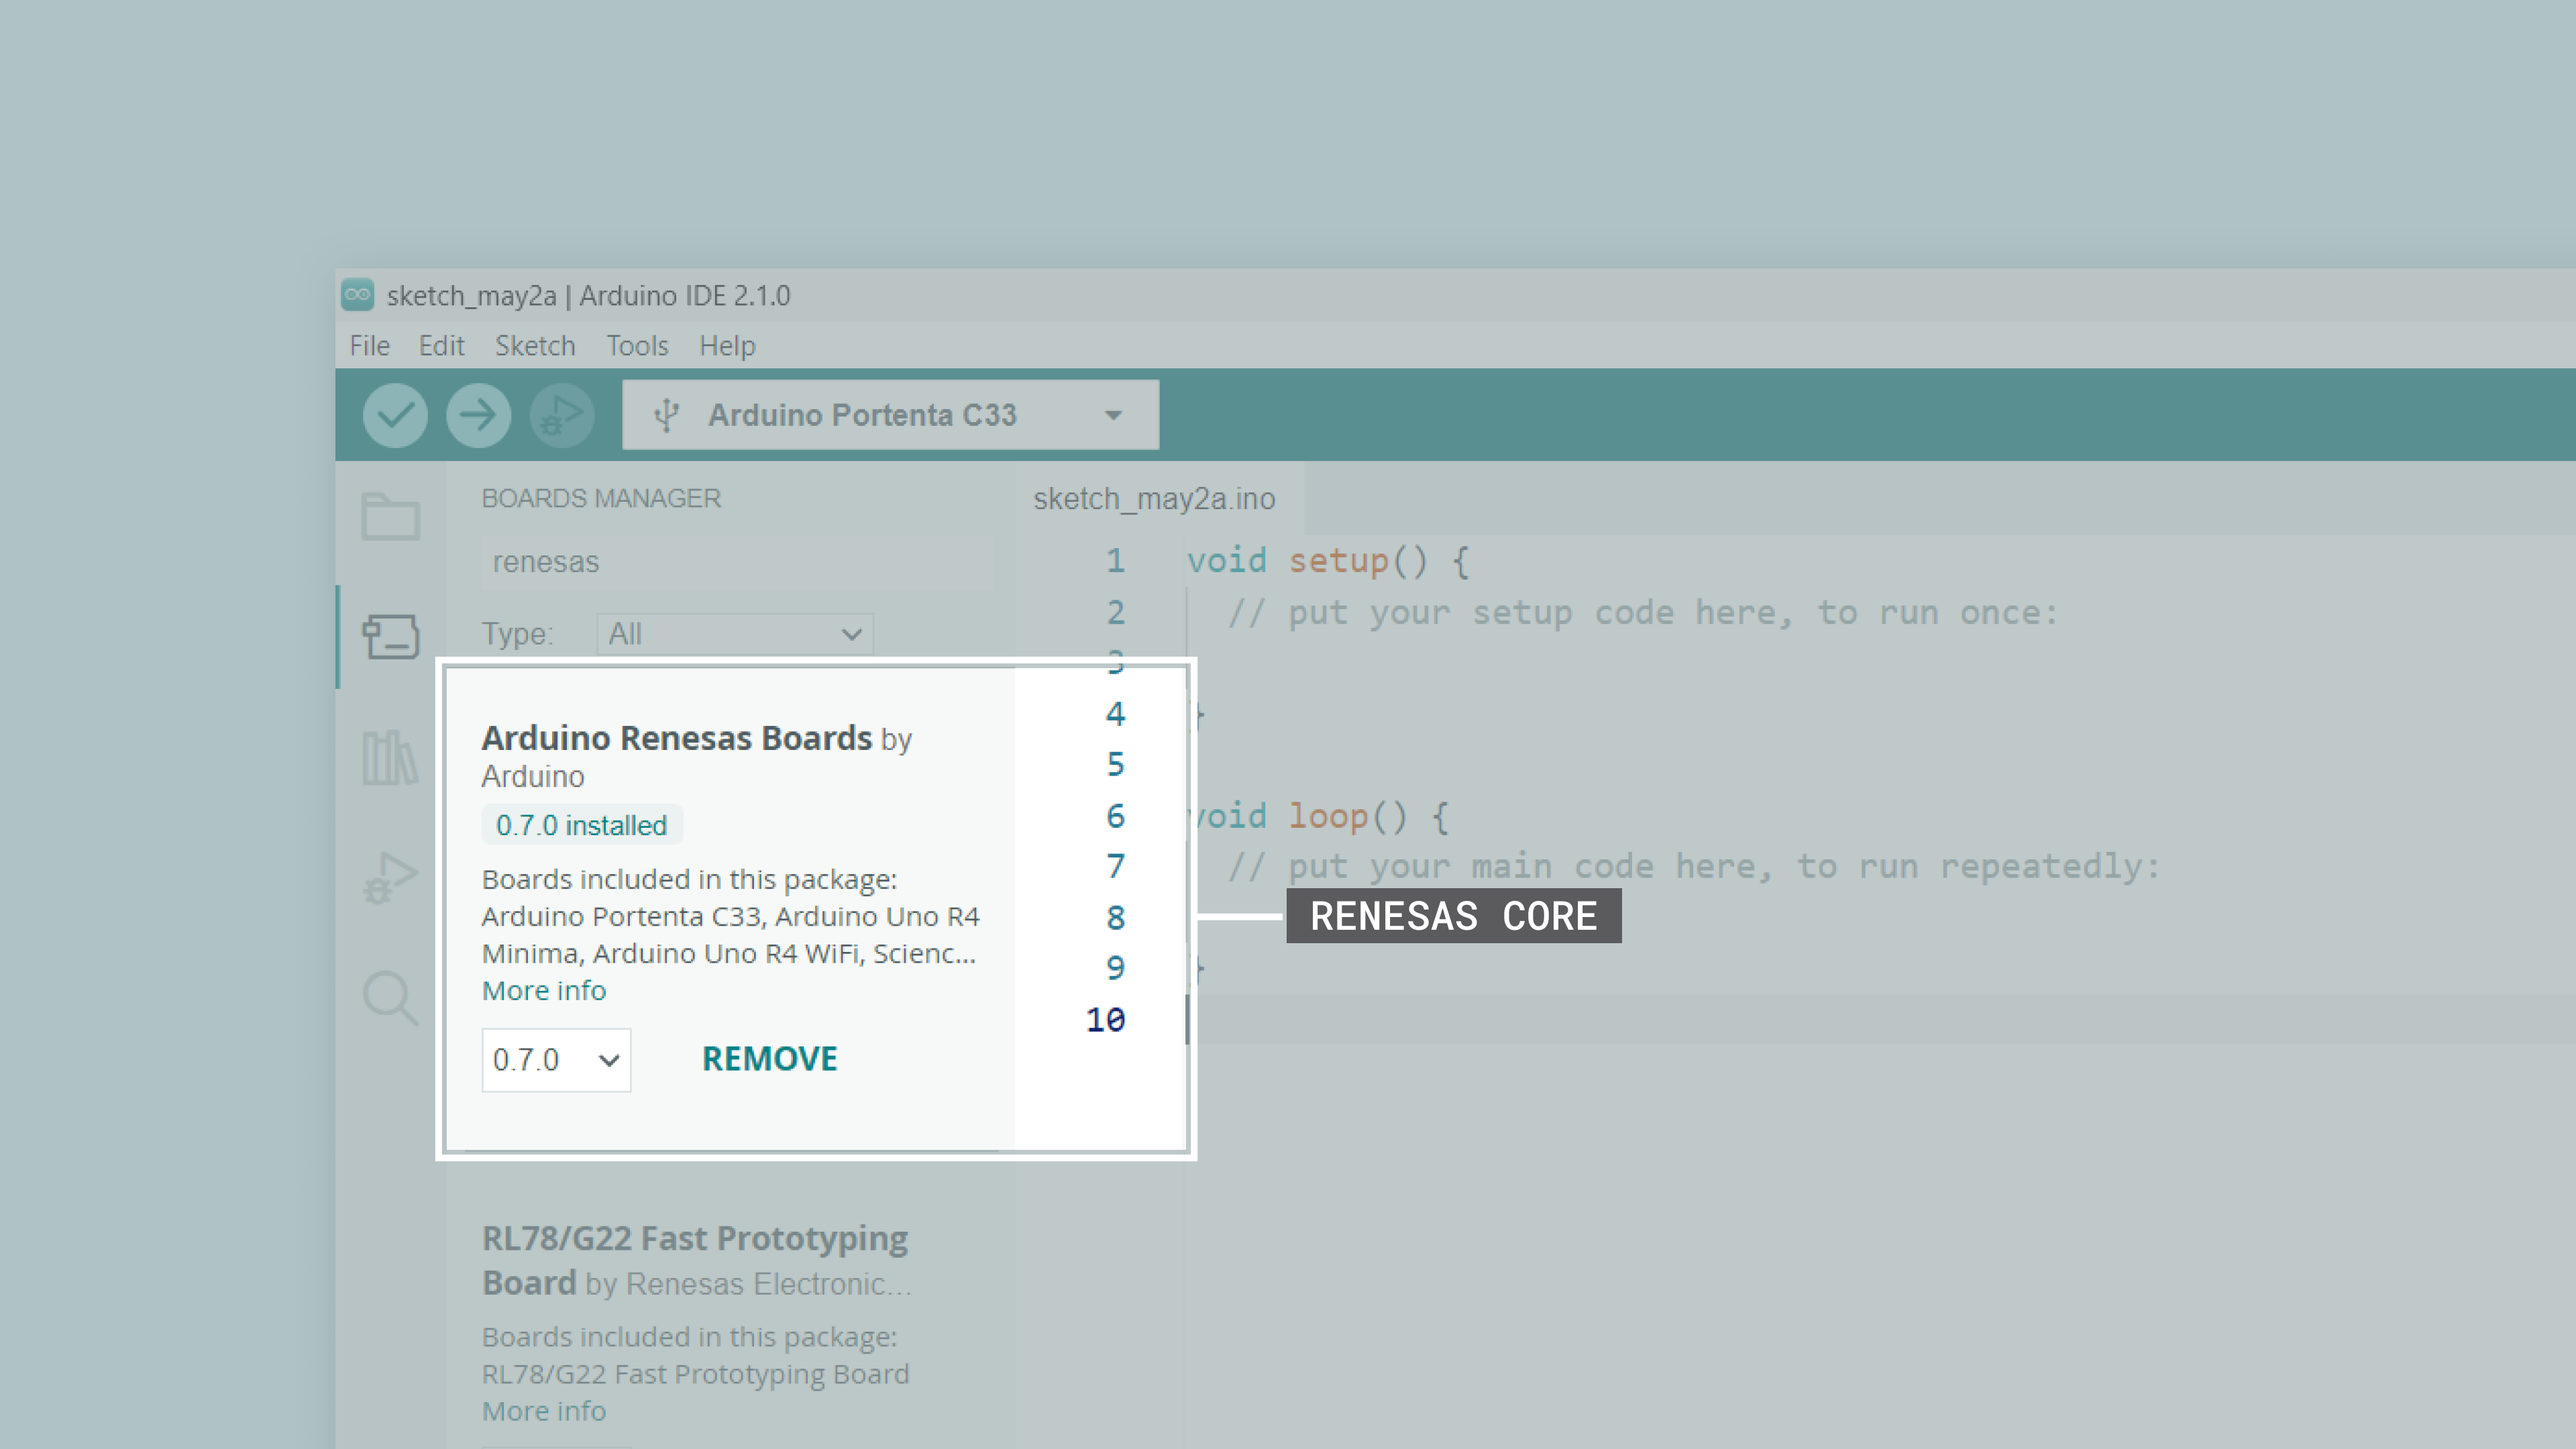
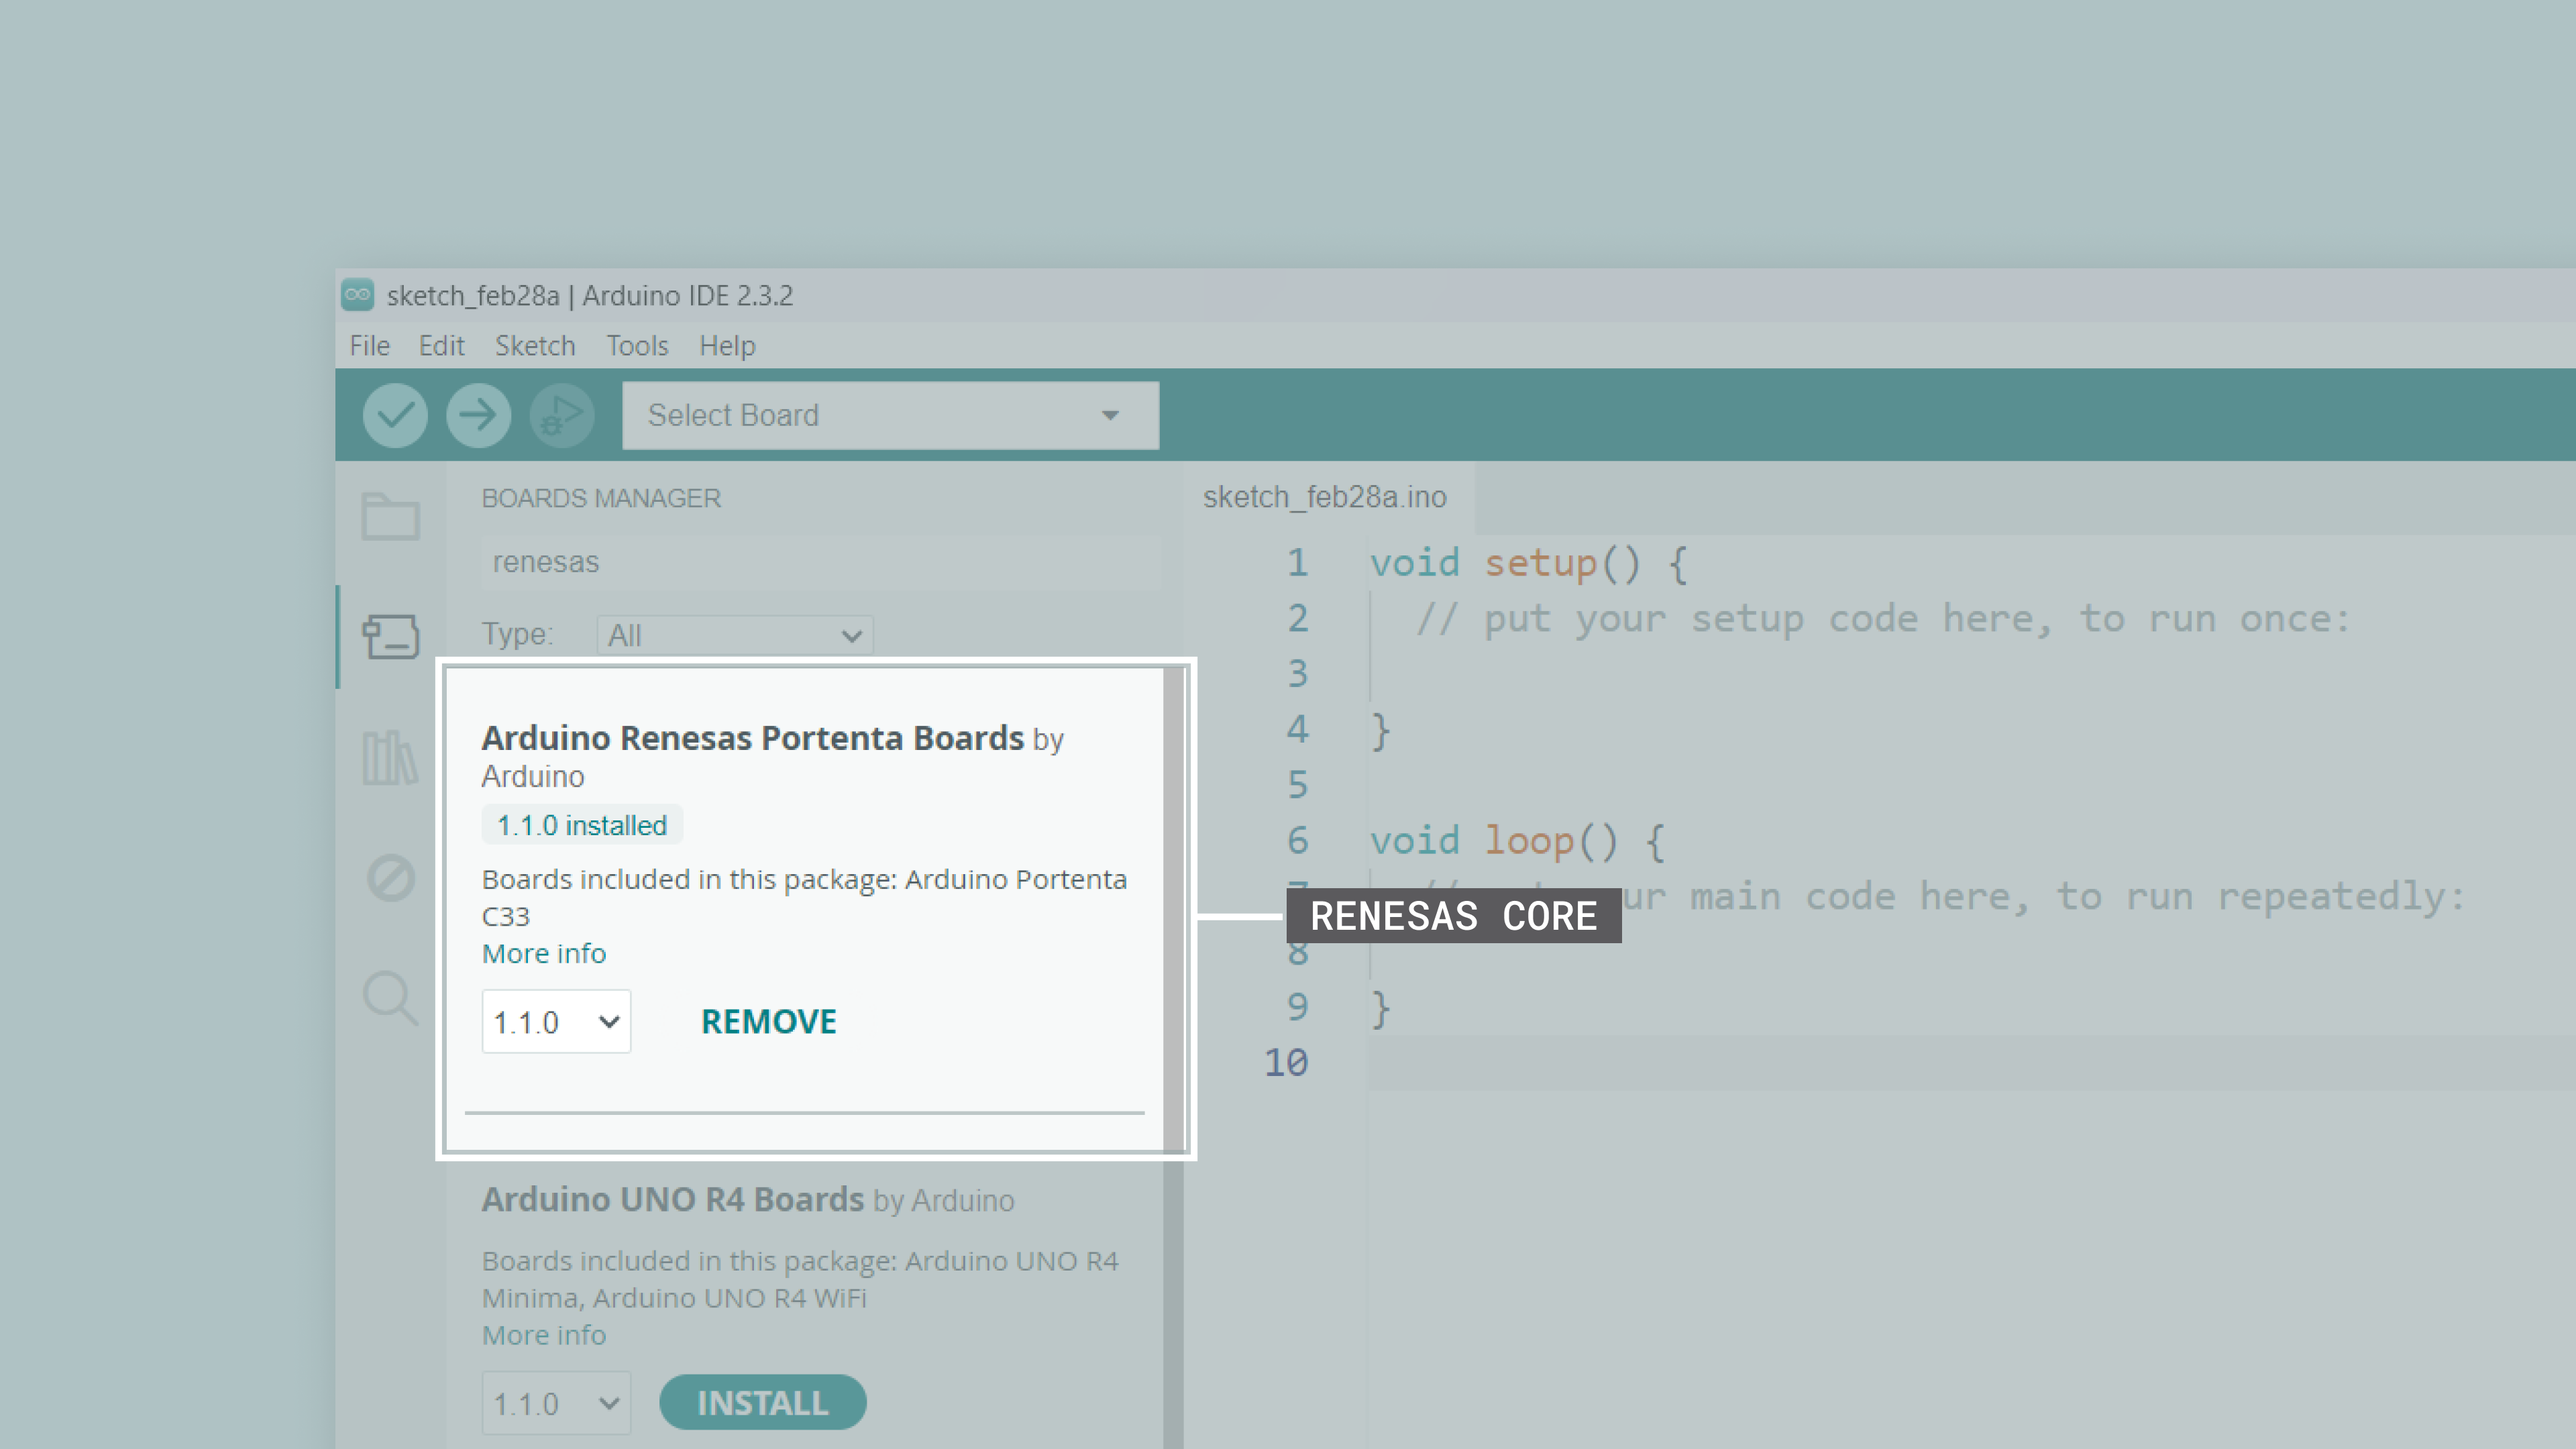
Content update (Hanne's, Josefine's and Julián's review)

diff --git a/content/micropython/01.basics/02.board-installation/board-installation.md b/content/micropython/01.basics/02.board-installation/board-installation.md
@@ -283,9 +283,9 @@ To install the MicroPython firmware to the Portenta C33 board, you can use the *
 
 ***The Arduino MicroPython Installer is part of [Arduino Labs](https://labs.arduino.cc) and is considered experimental software.***
 
-Before installing the MicroPython firmware, **ensure you have installed the latest Portenta Renesas core**. To install the core for the Portenta C33 board, navigate to **Tools > Board > Boards Manager** or click the Boards Manager icon in the left tab of the IDE. In the Boards Manager tab, search for `renesas` and install the latest `Arduino Renesas Boards` version. 
+Before installing the MicroPython firmware, **ensure you have installed the latest Portenta Renesas core**. To install the core for the Portenta C33 board, navigate to **Tools > Board > Boards Manager** or click the Boards Manager icon in the left tab of the IDE. In the Boards Manager tab, search for `renesas` and install the latest `Arduino Renesas Portenta Boards` version. 
 
-![Installing the Arduino Renesas Boards core in the Arduino IDE](./assets/portenta-c33-1.png)
+![Installing the Arduino Renesas Portenta Boards core in the Arduino IDE](./assets/portenta-c33-1.png)
     
 With the latest core installed, open the Arduino MicroPython Installer and plug your board into your computer; your board should appear ready to be selected, as shown in the image below. If your board does not appear in the installer, try putting it in bootloader mode by double-tapping your board's reset button.
 

diff --git a/content/micropython/01.basics/06.board-examples/board-examples.md b/content/micropython/01.basics/06.board-examples/board-examples.md
@@ -1583,9 +1583,7 @@ The MKR-styled connectors pinout is mapped in MicroPython as follows:
 |          `P402`         |            `P402`           |
 |          `P601`         |            `P601`           |
 
-The complete MicroPython pinout is available and downloadable as PDF from the link below:
-
-- Portenta C33 MicroPython pinout
+The complete MicroPython pinout is available [here](https://github.com/micropython/micropython/blob/master/ports/renesas-ra/boards/ARDUINO_PORTENTA_C33/pins.csv).
 
 ### Input/Output Pins
 
